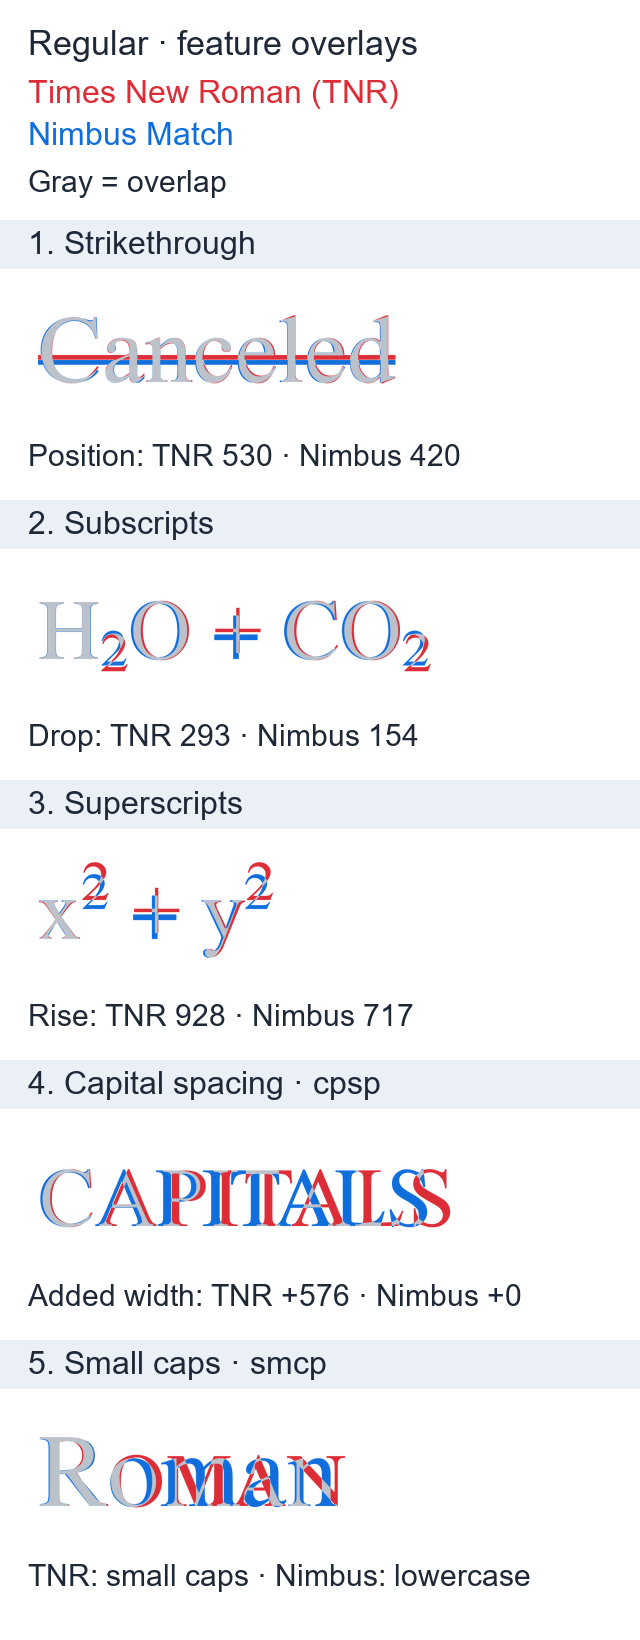
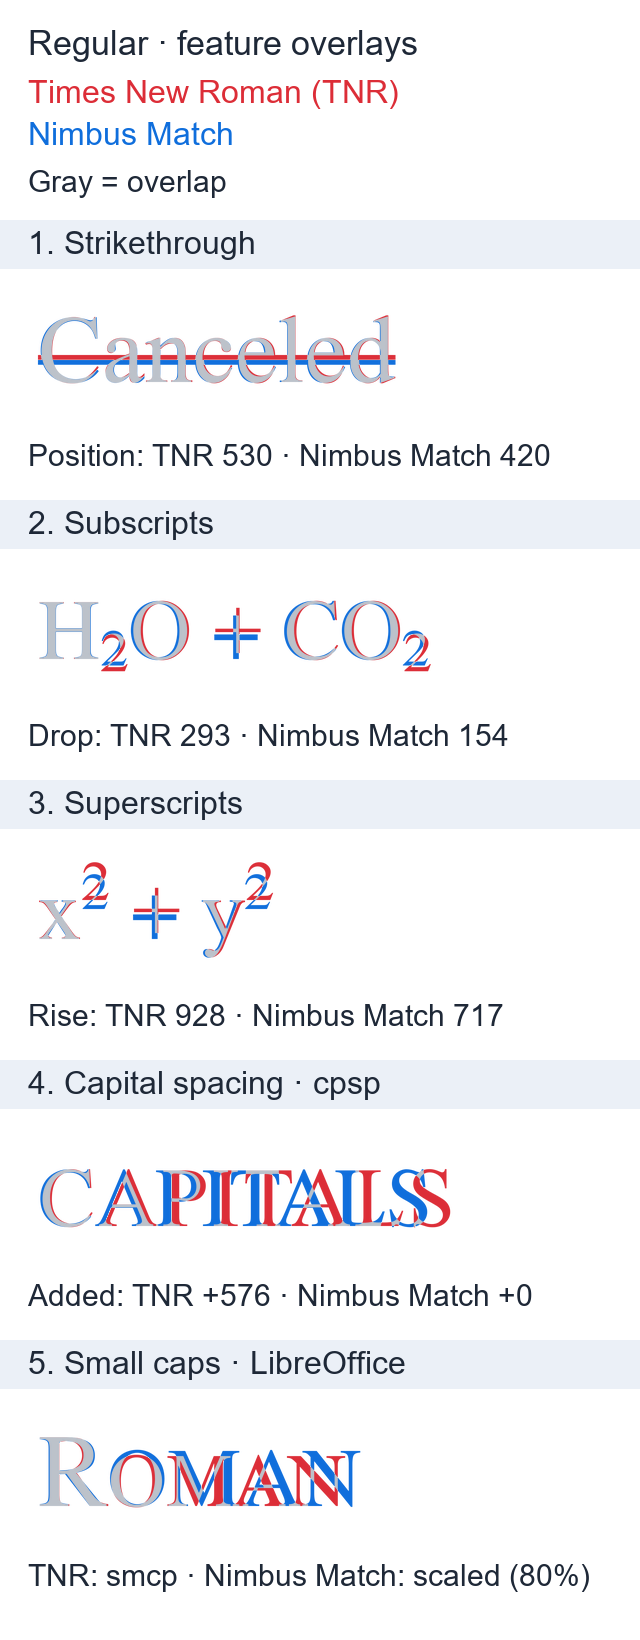
fix(previews): mimic LibreOffice small caps in the TNR comparison
Compare native TNR smcp glyphs with Nimbus Match uppercase letters scaled
to 80%, keeping the initial capital full size. This follows LibreOffice's
separate OpenType-feature and Small Capitals case-effect controls.

Require native smcp in the reference font, add rendering regressions,
and document reproduction steps and XeLaTeX's lack of automatic synthesis.
Use the full Nimbus Match name in every caption to distinguish it from
Nimbus Roman, and regenerate the comparison without reducing label size.

Validation: 72 tests and all pre-commit checks pass. Visually inspected
the generated image and checked the supplied LibreOffice document settings.

diff --git a/generate_font_details.py b/generate_font_details.py
@@ -23,6 +23,9 @@ from generate_comparison import (
 from render_font_sample import SUPERSAMPLE, FontRenderer, finish_mask, new_mask
 
 PANEL_SIZE = (IMAGE_WIDTH - 2 * PADDING, 150)
+# LibreOffice Writer uses 80% unless its legacy SmallCapsPercentage66 option is set.
+# https://github.com/LibreOffice/core/blob/bce0998afefdbc355585ca324285661a2170ba77/sw/source/core/txtnode/fntcap.cxx#L517-L523
+SMALL_CAPS_SCALE = 0.8
 
 
 def validate_font_pair(nimbus: TTFont, reference: TTFont) -> None:
@@ -39,15 +42,6 @@ def validate_font_pair(nimbus: TTFont, reference: TTFont) -> None:
 def glyph_advance(font: TTFont, codepoint: int) -> int | None:
     glyph = (font.getBestCmap() or {}).get(codepoint)
     return None if glyph is None else font["hmtx"][glyph][0]
-
-
-def has_feature(font: TTFont, table: str, tag: str) -> bool:
-    if table not in font or not font[table].table.FeatureList:
-        return False
-    return any(
-        record.FeatureTag == tag
-        for record in font[table].table.FeatureList.FeatureRecord
-    )
 
 
 def strike_mask(renderer: FontRenderer, font: TTFont) -> Image.Image:
@@ -102,6 +96,34 @@ def feature_mask(renderer: FontRenderer, text: str, tag: str) -> Image.Image:
     return finish_mask(mask)
 
 
+def synthetic_smallcaps_mask(renderer: FontRenderer) -> Image.Image:
+    """Mimic LibreOffice's synthetic small caps for the fixed 'Roman' specimen."""
+    mask = new_mask(PANEL_SIZE)
+    size, baseline = 104, 112
+    features = {"smcp": False, "c2sc": False}
+    advance = renderer.draw(mask, "R", (10, baseline), size, features)
+    renderer.draw(
+        mask, "OMAN", (10 + advance, baseline), size * SMALL_CAPS_SCALE, features
+    )
+    return finish_mask(mask)
+
+
+def smallcaps_masks(reference: FontRenderer, nimbus: FontRenderer) -> list[Image.Image]:
+    """Compare TNR's real small caps with Nimbus Match's configured synthetic fallback."""
+    glyphs = [
+        [glyph.glyph_id for glyph in reference.shape("Roman", {"smcp": enabled})]
+        for enabled in (False, True)
+    ]
+    if glyphs[0] == glyphs[1]:
+        raise ValueError(
+            "The TNR reference must provide native smcp glyphs for 'Roman'"
+        )
+    return [
+        feature_mask(reference, "Roman", "smcp"),
+        synthetic_smallcaps_mask(nimbus),
+    ]
+
+
 def generate_font_details(fonts_dir: Path, out_file: Path) -> None:
     nimbus_path = fonts_dir / "NimbusMatch-Regular.otf"
     reference_path, _ = find_ref_font_path(
@@ -119,7 +141,7 @@ def generate_font_details(fonts_dir: Path, out_file: Path) -> None:
                     strike_mask(renderer, font)
                     for renderer, font in zip(renderers, fonts)
                 ],
-                f"Position: TNR {reference['OS/2'].yStrikeoutPosition} · Nimbus {nimbus['OS/2'].yStrikeoutPosition}",
+                f"Position: TNR {reference['OS/2'].yStrikeoutPosition} · Nimbus Match {nimbus['OS/2'].yStrikeoutPosition}",
             )
         )
         for title, superscript, attr, label in (
@@ -133,7 +155,7 @@ def generate_font_details(fonts_dir: Path, out_file: Path) -> None:
                         script_mask(renderer, font, superscript)
                         for renderer, font in zip(renderers, fonts)
                     ],
-                    f"{label}: TNR {getattr(reference['OS/2'], attr)} · Nimbus {getattr(nimbus['OS/2'], attr)}",
+                    f"{label}: TNR {getattr(reference['OS/2'], attr)} · Nimbus Match {getattr(nimbus['OS/2'], attr)}",
                 )
             )
 
@@ -146,18 +168,14 @@ def generate_font_details(fonts_dir: Path, out_file: Path) -> None:
             (
                 "4. Capital spacing · cpsp",
                 [feature_mask(renderer, "CAPITALS", "cpsp") for renderer in renderers],
-                f"Added width: TNR {added[0]:+d} · Nimbus {added[1]:+d}",
+                f"Added: TNR {added[0]:+d} · Nimbus Match {added[1]:+d}",
             )
         )
-        statuses = [
-            "small caps" if has_feature(font, "GSUB", "smcp") else "lowercase"
-            for font in fonts
-        ]
         panels.append(
             (
-                "5. Small caps · smcp",
-                [feature_mask(renderer, "Roman", "smcp") for renderer in renderers],
-                f"TNR: {statuses[0]} · Nimbus: {statuses[1]}",
+                "5. Small caps · LibreOffice",
+                smallcaps_masks(*renderers),
+                "TNR: smcp · Nimbus Match: scaled (80%)",
             )
         )
 

diff --git a/tests/test_font_rendering.py b/tests/test_font_rendering.py
@@ -3,6 +3,7 @@ from fontTools.feaLib.builder import addOpenTypeFeaturesFromString
 from fontTools.fontBuilder import FontBuilder
 from fontTools.pens.ttGlyphPen import TTGlyphPen
 
+from generate_font_details import smallcaps_masks
 from render_font_sample import FontRenderer, finish_mask, new_mask
 
 
@@ -12,7 +13,9 @@ def renderer_factory(tmp_path):
         builder = FontBuilder(1000, isTTF=True)
         names = [".notdef", "A", "a", "a.sc"]
         builder.setupGlyphOrder(names)
-        builder.setupCharacterMap({ord("A"): "A", ord("a"): "a"})
+        builder.setupCharacterMap(
+            {**{ord(c): "A" for c in "AROMN"}, **{ord(c): "a" for c in "aomn"}}
+        )
         glyphs = {}
         for name, height in zip(names, (700, 700, 400, 500)):
             pen = TTGlyphPen(None)
@@ -75,3 +78,23 @@ def test_smcp_uses_substituted_glyph_outlines(renderer_factory):
 def test_absent_features_do_not_invent_spacing_or_small_caps(renderer_factory):
     renderer = renderer_factory(False)
     assert renderer.shape("AAa", {"cpsp": True, "smcp": True}) == renderer.shape("AAa")
+
+
+def test_comparison_uses_native_and_synthetic_small_caps(renderer_factory):
+    native, synthetic = smallcaps_masks(renderer_factory(True), renderer_factory(False))
+    # The initial capital stays identical. The suffix uses 500-unit native
+    # outlines versus 700-unit uppercase outlines scaled to 80% (560 units).
+    assert (
+        native.crop((0, 0, 70, 150)).tobytes()
+        == synthetic.crop((0, 0, 70, 150)).tobytes()
+    )
+    native_suffix = native.crop((72, 0, 584, 150)).getbbox()
+    synthetic_suffix = synthetic.crop((72, 0, 584, 150)).getbbox()
+    assert synthetic_suffix[1] < native_suffix[1]
+    assert synthetic_suffix[2] < native_suffix[2]
+
+
+def test_comparison_requires_real_small_caps_in_reference(renderer_factory):
+    renderer = renderer_factory(False)
+    with pytest.raises(ValueError, match="native smcp"):
+        smallcaps_masks(renderer, renderer)

diff --git a/README.md b/README.md
@@ -24,16 +24,18 @@ Regular style: **red = Times New Roman**, **blue = Nimbus Match**. Shared areas 
 
 Measured from the built **Nimbus Match Regular** and local **Times New Roman Regular** fonts. Values are font units (2048 per em); results may vary with font versions.
 
-![Nimbus Match vs. Times New Roman overlays of strikethrough, sub/superscripts, capital spacing, and small caps](nimbus_match_tnr_details.png)
+![Nimbus Match vs. Times New Roman overlays of strikethrough, sub/superscripts, capital spacing, and native versus synthetic small caps](nimbus_match_tnr_details.png)
 
 ### Key Differences
 
 - **Strikethrough:** Nimbus Match places the line lower (420 vs. 530).
 - **Sub / superscripts:** Nimbus Match drops subscripts less (154 vs. 293) and raises superscripts less (717 vs. 928). The image illustrates `OS/2` offsets; application rendering can differ.
 - **Capital spacing (`cpsp`):** The feature is enabled for both fonts. TNR adds spacing; Nimbus Match has no `cpsp` adjustment.
-- **Small caps (`smcp`):** The feature is enabled for both fonts. TNR substitutes small capitals; Nimbus Match keeps lowercase letters. The preview does not synthesize small caps.
+- **Small caps (`smcp`):** TNR uses native small-cap glyphs. Nimbus Match uses uppercase letters scaled to 80%, with the initial capital at full size, mimicking LibreOffice's Small Capitals case effect.
 
-Only supported characters are compared. The `cpsp` and `smcp` examples use HarfBuzz shaping and FreeType rendering.
+To reproduce the small-caps setup in LibreOffice, use `Times New Roman:smcp=1` for TNR and **Font Effects → Case → Small capitals** for Nimbus Match. These are [separate controls](https://software.sil.org/fonts/features/#libreoffice). XeLaTeX does not automatically synthesize small caps.
+
+Only supported characters are compared. HarfBuzz and FreeType render the illustrations; application rasterization may differ.
 
 ### Extra Characters
 
